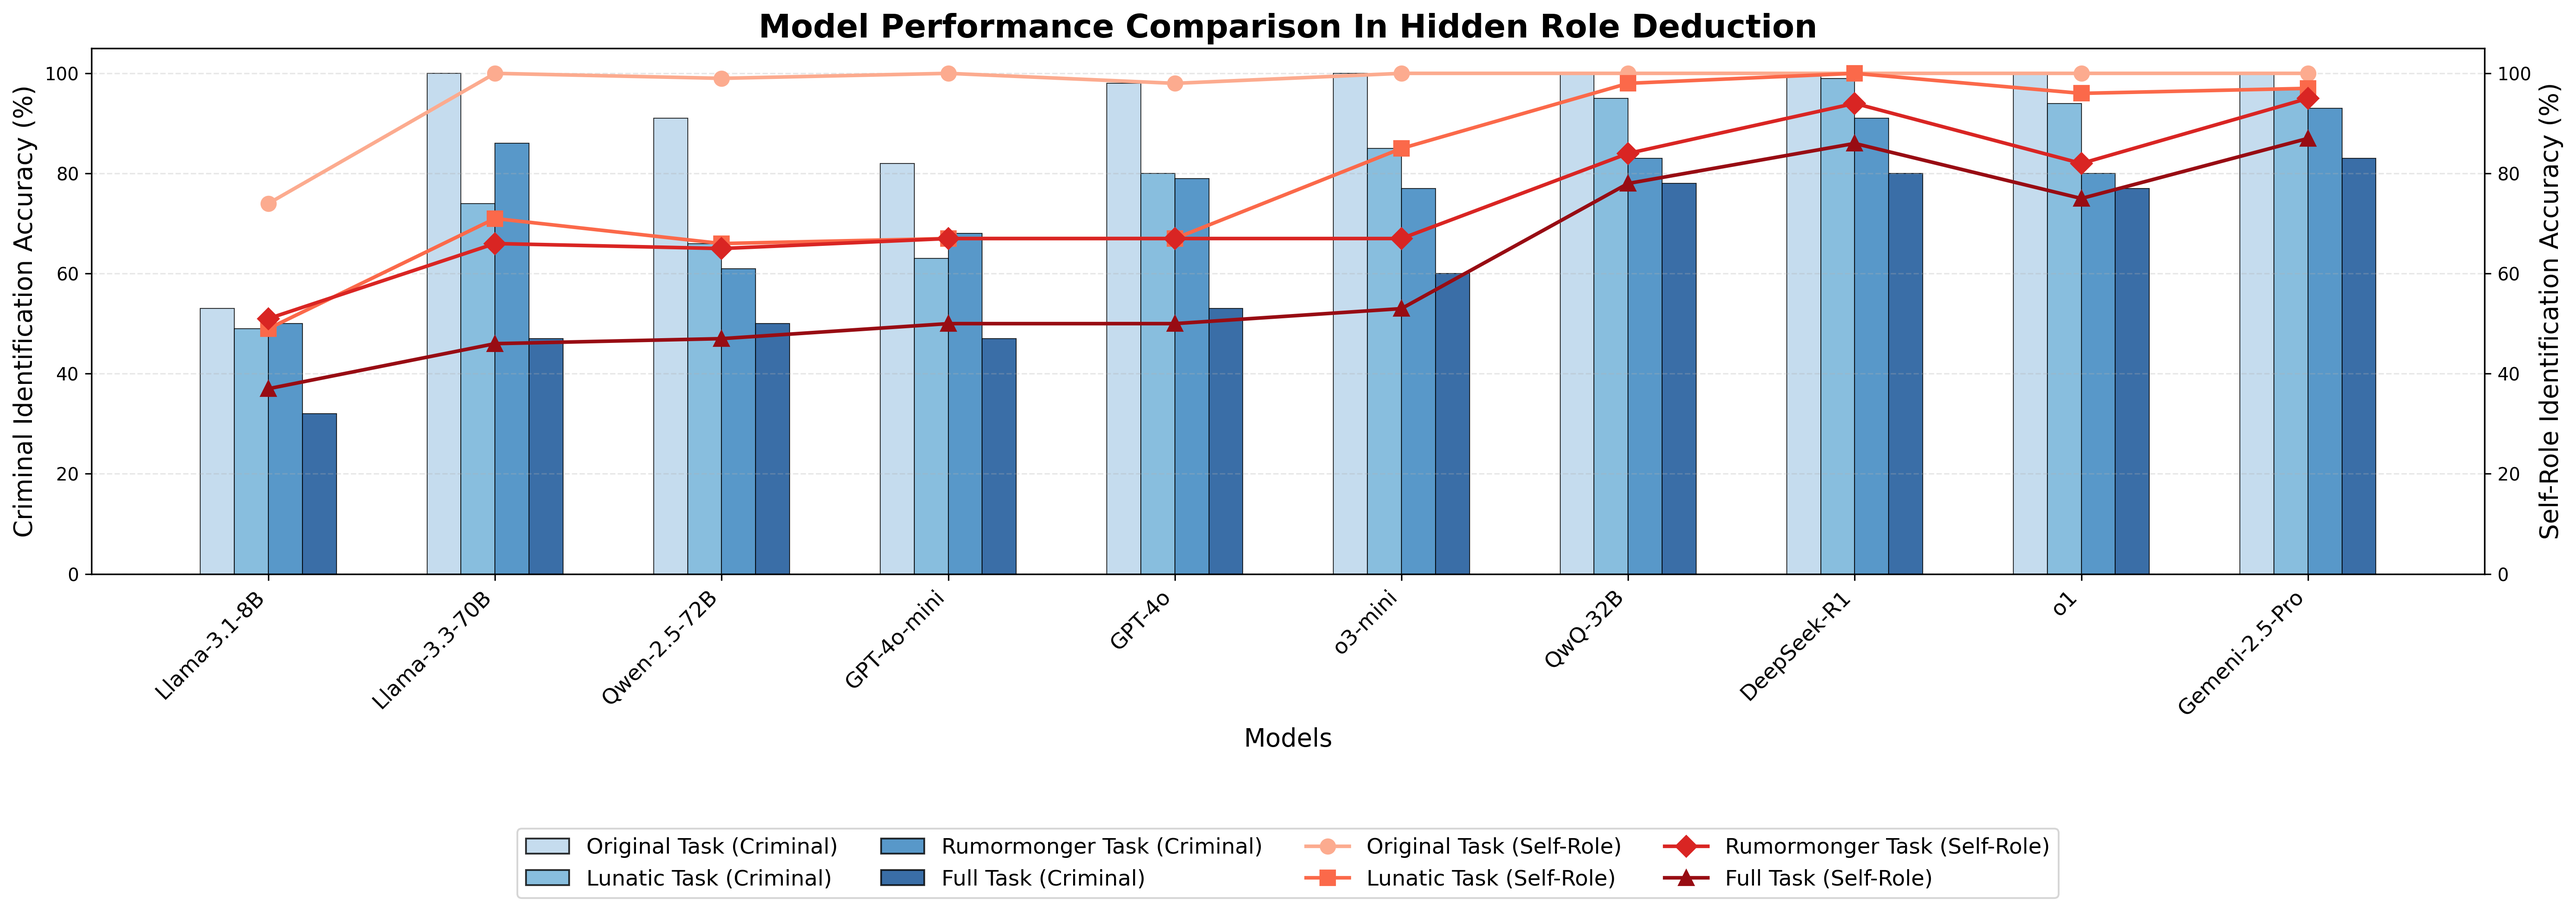
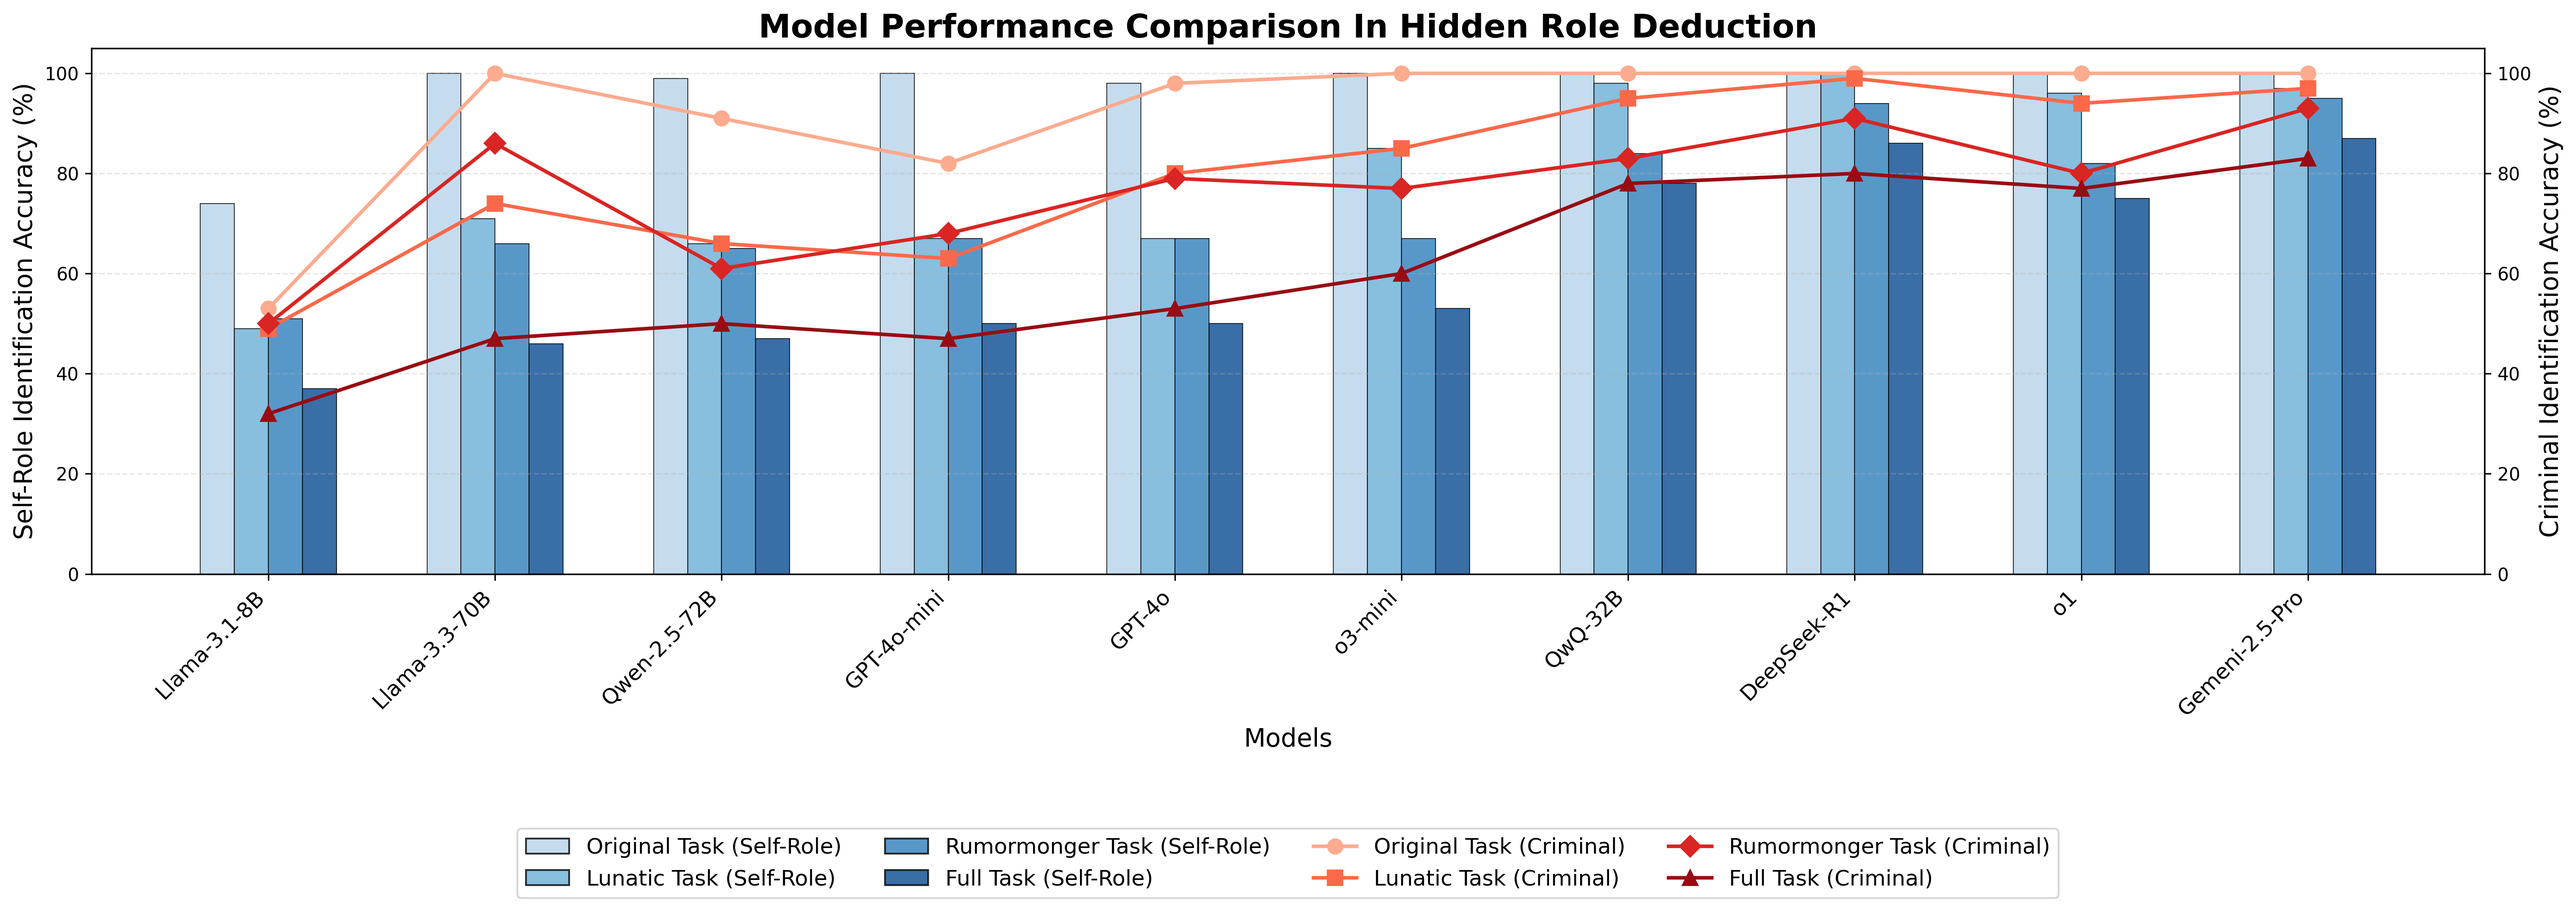
update

diff --git a/task_accuracy.py b/task_accuracy.py
@@ -94,8 +94,8 @@ bar_width = 0.15
 index = np.arange(num_models)
 
 # Create color gradients for bar charts and lines - ordered from light to dark
-bar_colors = cm.Blues([0.3, 0.5, 0.7, 0.9])  # Increasing blue intensity for bars
-line_colors = cm.Reds([0.3, 0.5, 0.7, 0.9])  # Increasing red intensity for lines
+line_colors = cm.Reds([0.3, 0.5, 0.7, 0.9])  # Increasing red intensity for bars (now for self-role)
+bar_colors= cm.Blues([0.3, 0.5, 0.7, 0.9])  # Increasing blue intensity for lines (now for criminal)
 
 # Bar positions adjustment for each scenario
 bar_positions = {}
@@ -109,24 +109,7 @@ line_markers = ['o', 's', 'D', '^']
 # Create second y-axis for line plots
 ax2 = ax.twinx()
 
-# Plot bar charts for criminal accuracy
-for i, scenario in enumerate(scenarios):
-    scenario_data = []
-    for model in models:
-        if model in results and scenario in results[model]:
-            scenario_data.append(results[model][scenario]['criminal_accuracy'])
-        else:
-            scenario_data.append(0)
-    
-    bar = ax.bar(bar_positions[scenario], scenario_data, bar_width, 
-                 color=bar_colors[i], label=f'{scenario_names[scenario]} (Criminal)', 
-                 edgecolor='black', linewidth=0.5, alpha=0.8)
-    
-    # Removed value labels on bars
-    
-    bars.append(bar)
-
-# Plot lines for self-role accuracy
+# Plot bar charts for self-role accuracy (previously was criminal accuracy)
 for i, scenario in enumerate(scenarios):
     scenario_data = []
     for model in models:
@@ -135,21 +118,34 @@ for i, scenario in enumerate(scenarios):
         else:
             scenario_data.append(0)
     
+    bar = ax.bar(bar_positions[scenario], scenario_data, bar_width, 
+                 color=bar_colors[i], label=f'{scenario_names[scenario]} (Self-Role)', 
+                 edgecolor='black', linewidth=0.5, alpha=0.8)
+    
+    bars.append(bar)
+
+# Plot lines for criminal accuracy (previously was self-role accuracy)
+for i, scenario in enumerate(scenarios):
+    scenario_data = []
+    for model in models:
+        if model in results and scenario in results[model]:
+            scenario_data.append(results[model][scenario]['criminal_accuracy'])
+        else:
+            scenario_data.append(0)
+    
     # Use a different position set for lines (center of the model group)
     line_pos = index
     line = ax2.plot(line_pos, scenario_data, marker=line_markers[i], linestyle='-', 
                     color=line_colors[i], linewidth=2, markersize=8,
-                    label=f'{scenario_names[scenario]} (Self-Role)')
-    
-    # Removed value labels on line points
+                    label=f'{scenario_names[scenario]} (Criminal)')
     
     lines.extend(line)
 
 # Set title and labels
 ax.set_title('Model Performance Comparison In Hidden Role Deduction', fontsize=18, fontweight='bold')
 ax.set_xlabel('Models', fontsize=14)
-ax.set_ylabel('Criminal Identification Accuracy (%)', fontsize=14)
-ax2.set_ylabel('Self-Role Identification Accuracy (%)', fontsize=14)
+ax.set_ylabel('Self-Role Identification Accuracy (%)', fontsize=14)
+ax2.set_ylabel('Criminal Identification Accuracy (%)', fontsize=14)
 
 # Set x-ticks and labels
 ax.set_xticks(index)
@@ -165,15 +161,15 @@ ax.grid(axis='y', linestyle='--', alpha=0.3)
 # 创建清晰的图例，确保柱状图颜色有明确标注
 legend_elements = []
 
-# 柱状图图例（带颜色说明）
+# 柱状图图例（带颜色说明）- 现在是Self-Role
 for i, scenario in enumerate(scenarios):
     legend_elements.append(Patch(facecolor=bar_colors[i], edgecolor='black', 
-                               label=f'{scenario_names[scenario]} (Criminal)', alpha=0.8))
+                               label=f'{scenario_names[scenario]} (Self-Role)', alpha=0.8))
 
-# 折线图图例
+# 折线图图例 - 现在是Criminal
 for i, scenario in enumerate(scenarios):
     legend_elements.append(Line2D([0], [0], color=line_colors[i], marker=line_markers[i],
-                               label=f'{scenario_names[scenario]} (Self-Role)', 
+                               label=f'{scenario_names[scenario]} (Criminal)', 
                                markersize=8, linestyle='-', linewidth=2))
 
 # 添加组合图例
